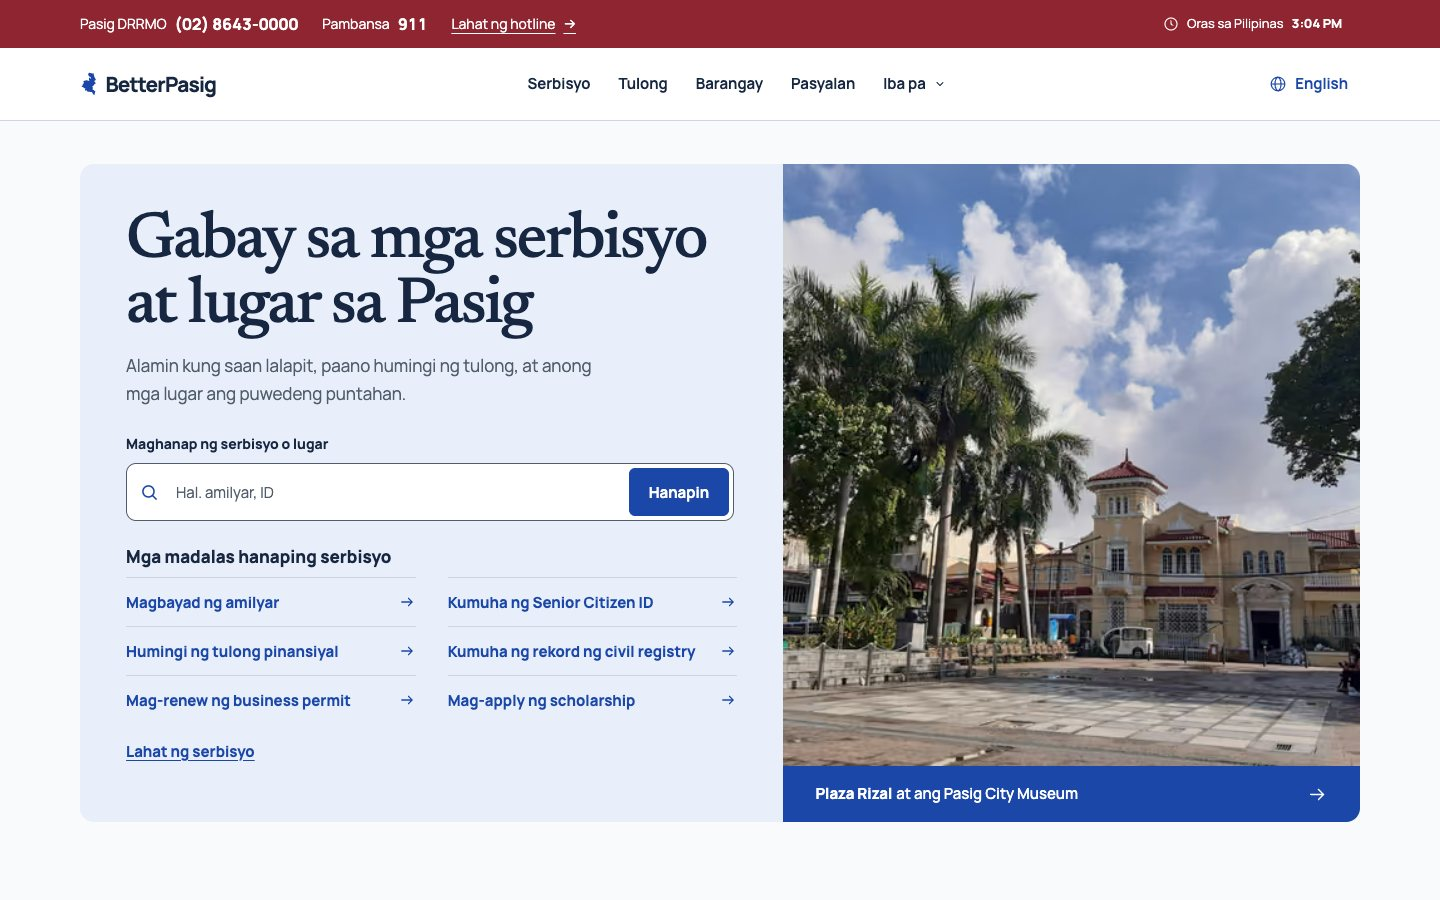
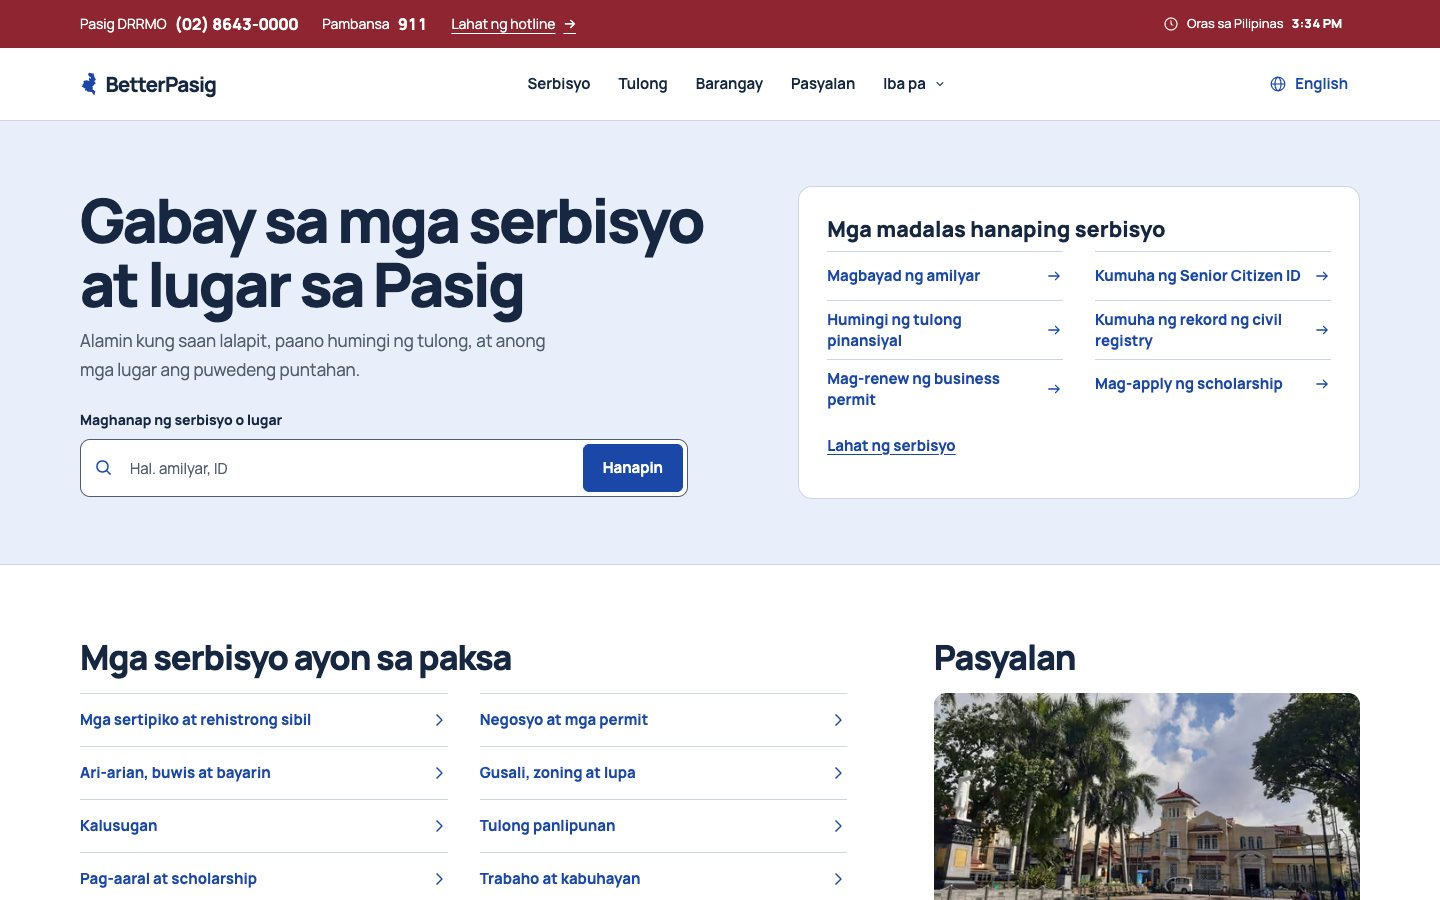
Make the Pasig homepage easier to browse

diff --git a/src/i18n.ts b/src/i18n.ts
@@ -293,7 +293,7 @@ export const ui = {
 
     emergency: "Emergency",
     moreNumbers: "More numbers",
-    guideHelp: "Assistance",
+    guideHelp: "Help",
     guideExplore: "Explore Pasig",
     guideMore: "More",
     guideNational: "National",

diff --git a/research/city-guide/README.md b/research/city-guide/README.md
@@ -1,10 +1,11 @@
 # BetterPasig city guide
 
-The November 18, 2026 design puts search and common service links beside a licensed photograph of Plaza Rizal at desktop widths. On phones, the tasks come before the photo. The shared interface uses a light palette, Manrope for controls and body text, Newsreader for editorial headings, and Pasig Blue for actions. [Photo and credit records](../../data/photos.json)
+The homepage opens with search and six direct service links. A topic directory and a licensed photograph of Plaza Rizal follow. On phones, the order is search, shortcuts, topics, and places. The shared interface uses a light palette, Manrope for controls and body text, Newsreader for editorial headings, and Pasig Blue for actions. [Photo and credit records](../../data/photos.json)
 
 | Reference | Application in BetterPasig |
 | --- | --- |
-| [City of Helsinki](https://www.hel.fi/en) | Keep the search on a solid ground alongside a recognizable image of the city. |
+| [BetterGov.ph](https://bettergov.ph/) | Lead with search and popular tasks, then offer a broader topic directory. The Pasig directory uses plain links to the corresponding sections. |
+| [City of Helsinki](https://www.hel.fi/en) | Use a solid ground for search and recognizable photography for the city guide. |
 | [City of Sydney](https://www.cityofsydney.nsw.gov.au/) | Link common tasks directly from the welcome area, including amilyar, permit renewal, and scholarship applications. |
 | [LifeSG](https://www.life.gov.sg/) | Browse by a life event with a short explanation of each guide. |
 | [GOV.UK birth registration](https://www.gov.uk/register-birth) | Use plain headings and direct links to service details, requirements, and steps. |
@@ -16,5 +17,6 @@ Impeccable informed the layout, type hierarchy, and browser review. UI UX Pro Ma
 ## Screenshots
 
 - [Desktop homepage](home-desktop.jpg) and [mobile homepage](home-mobile.jpg)
+- [Desktop topic directory and Pasyalan](topics-desktop.jpg)
 - [Desktop service answer](service-desktop.jpg) and [mobile service answer](service-mobile.jpg)
 - [Mobile park guide](explore-mobile.jpg)
